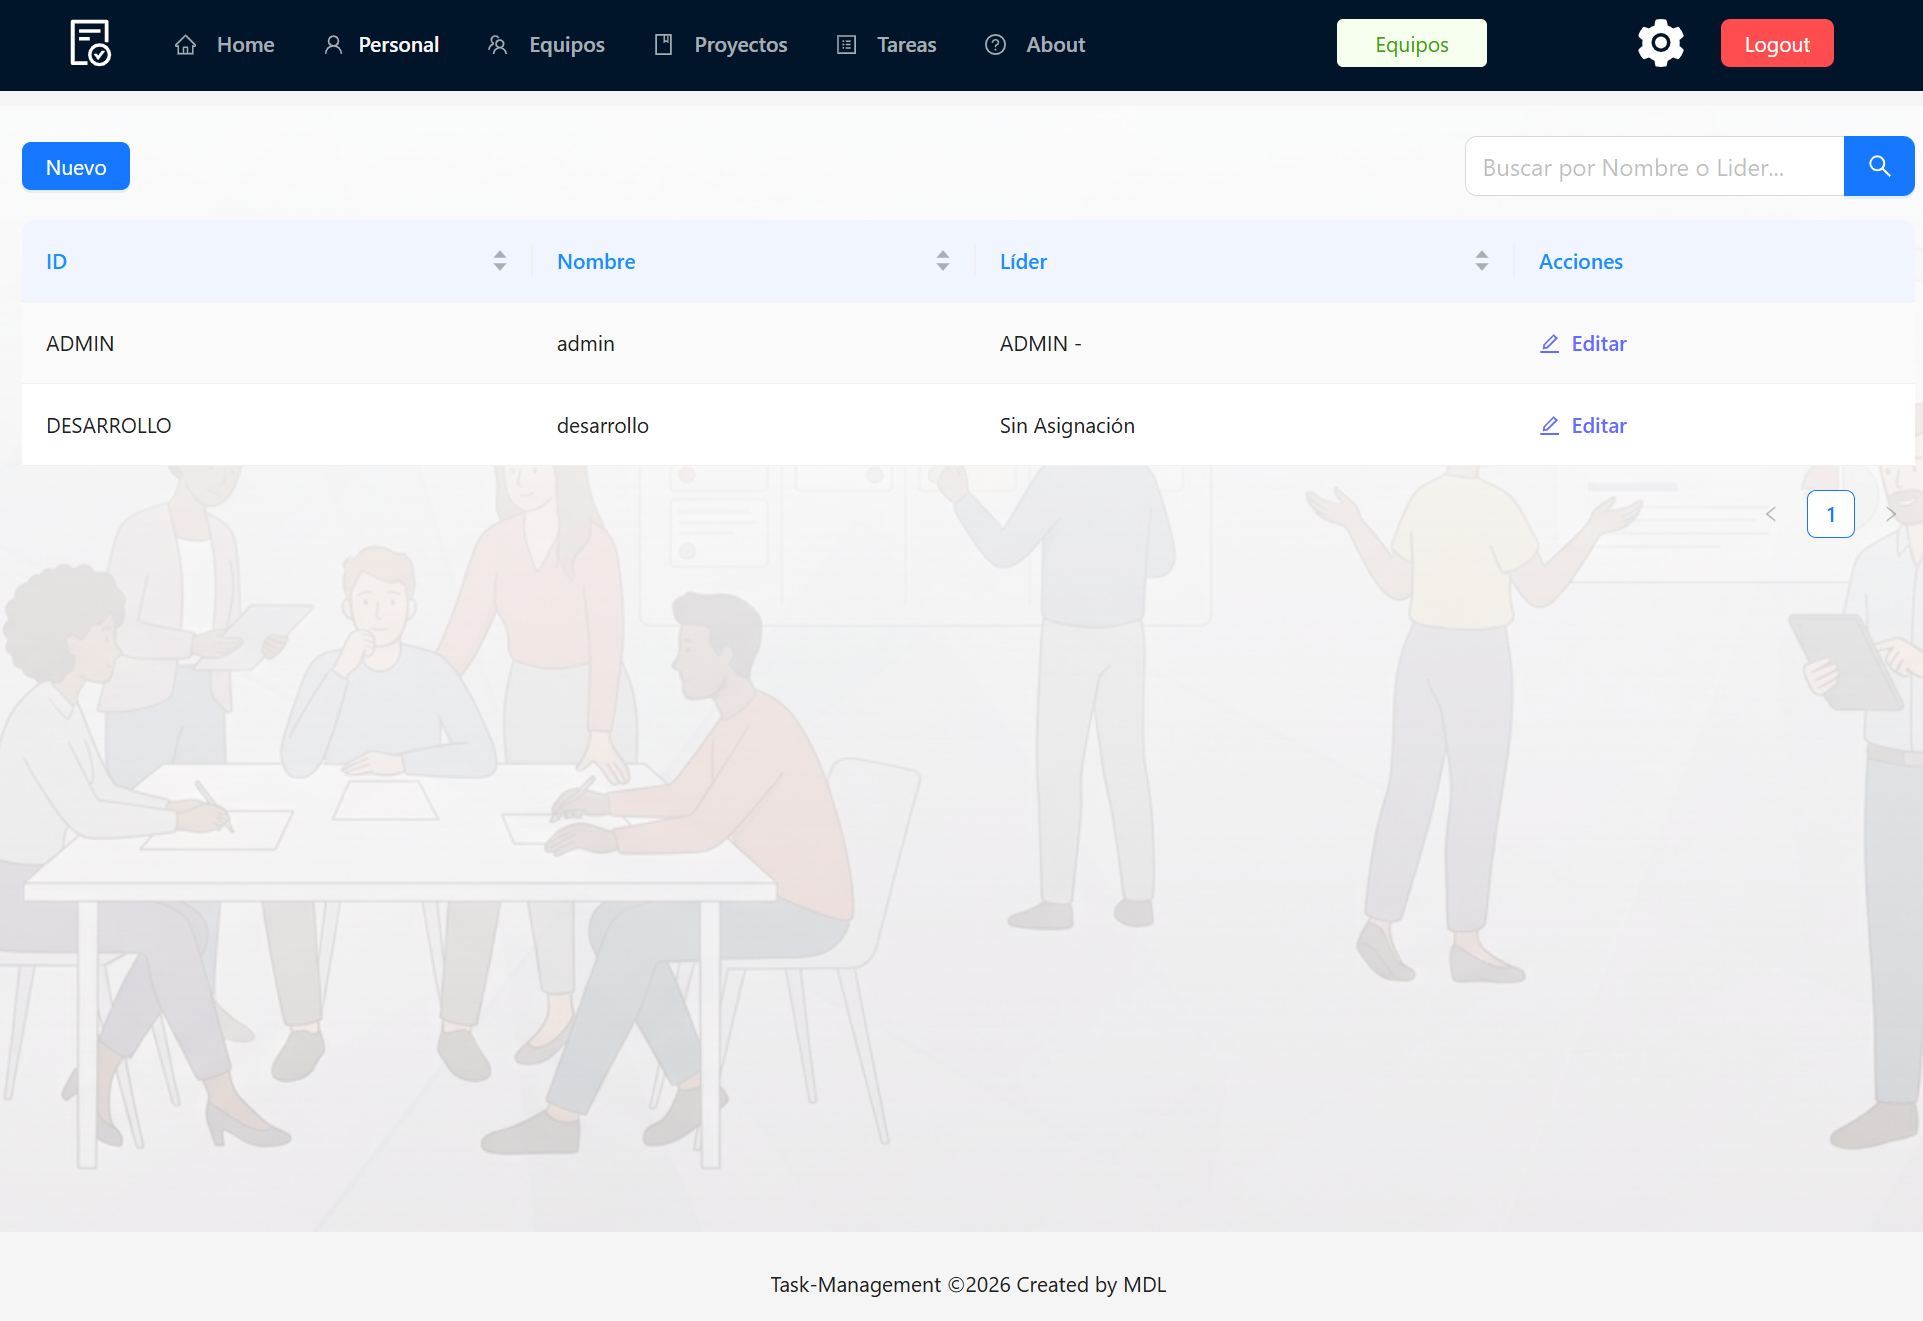
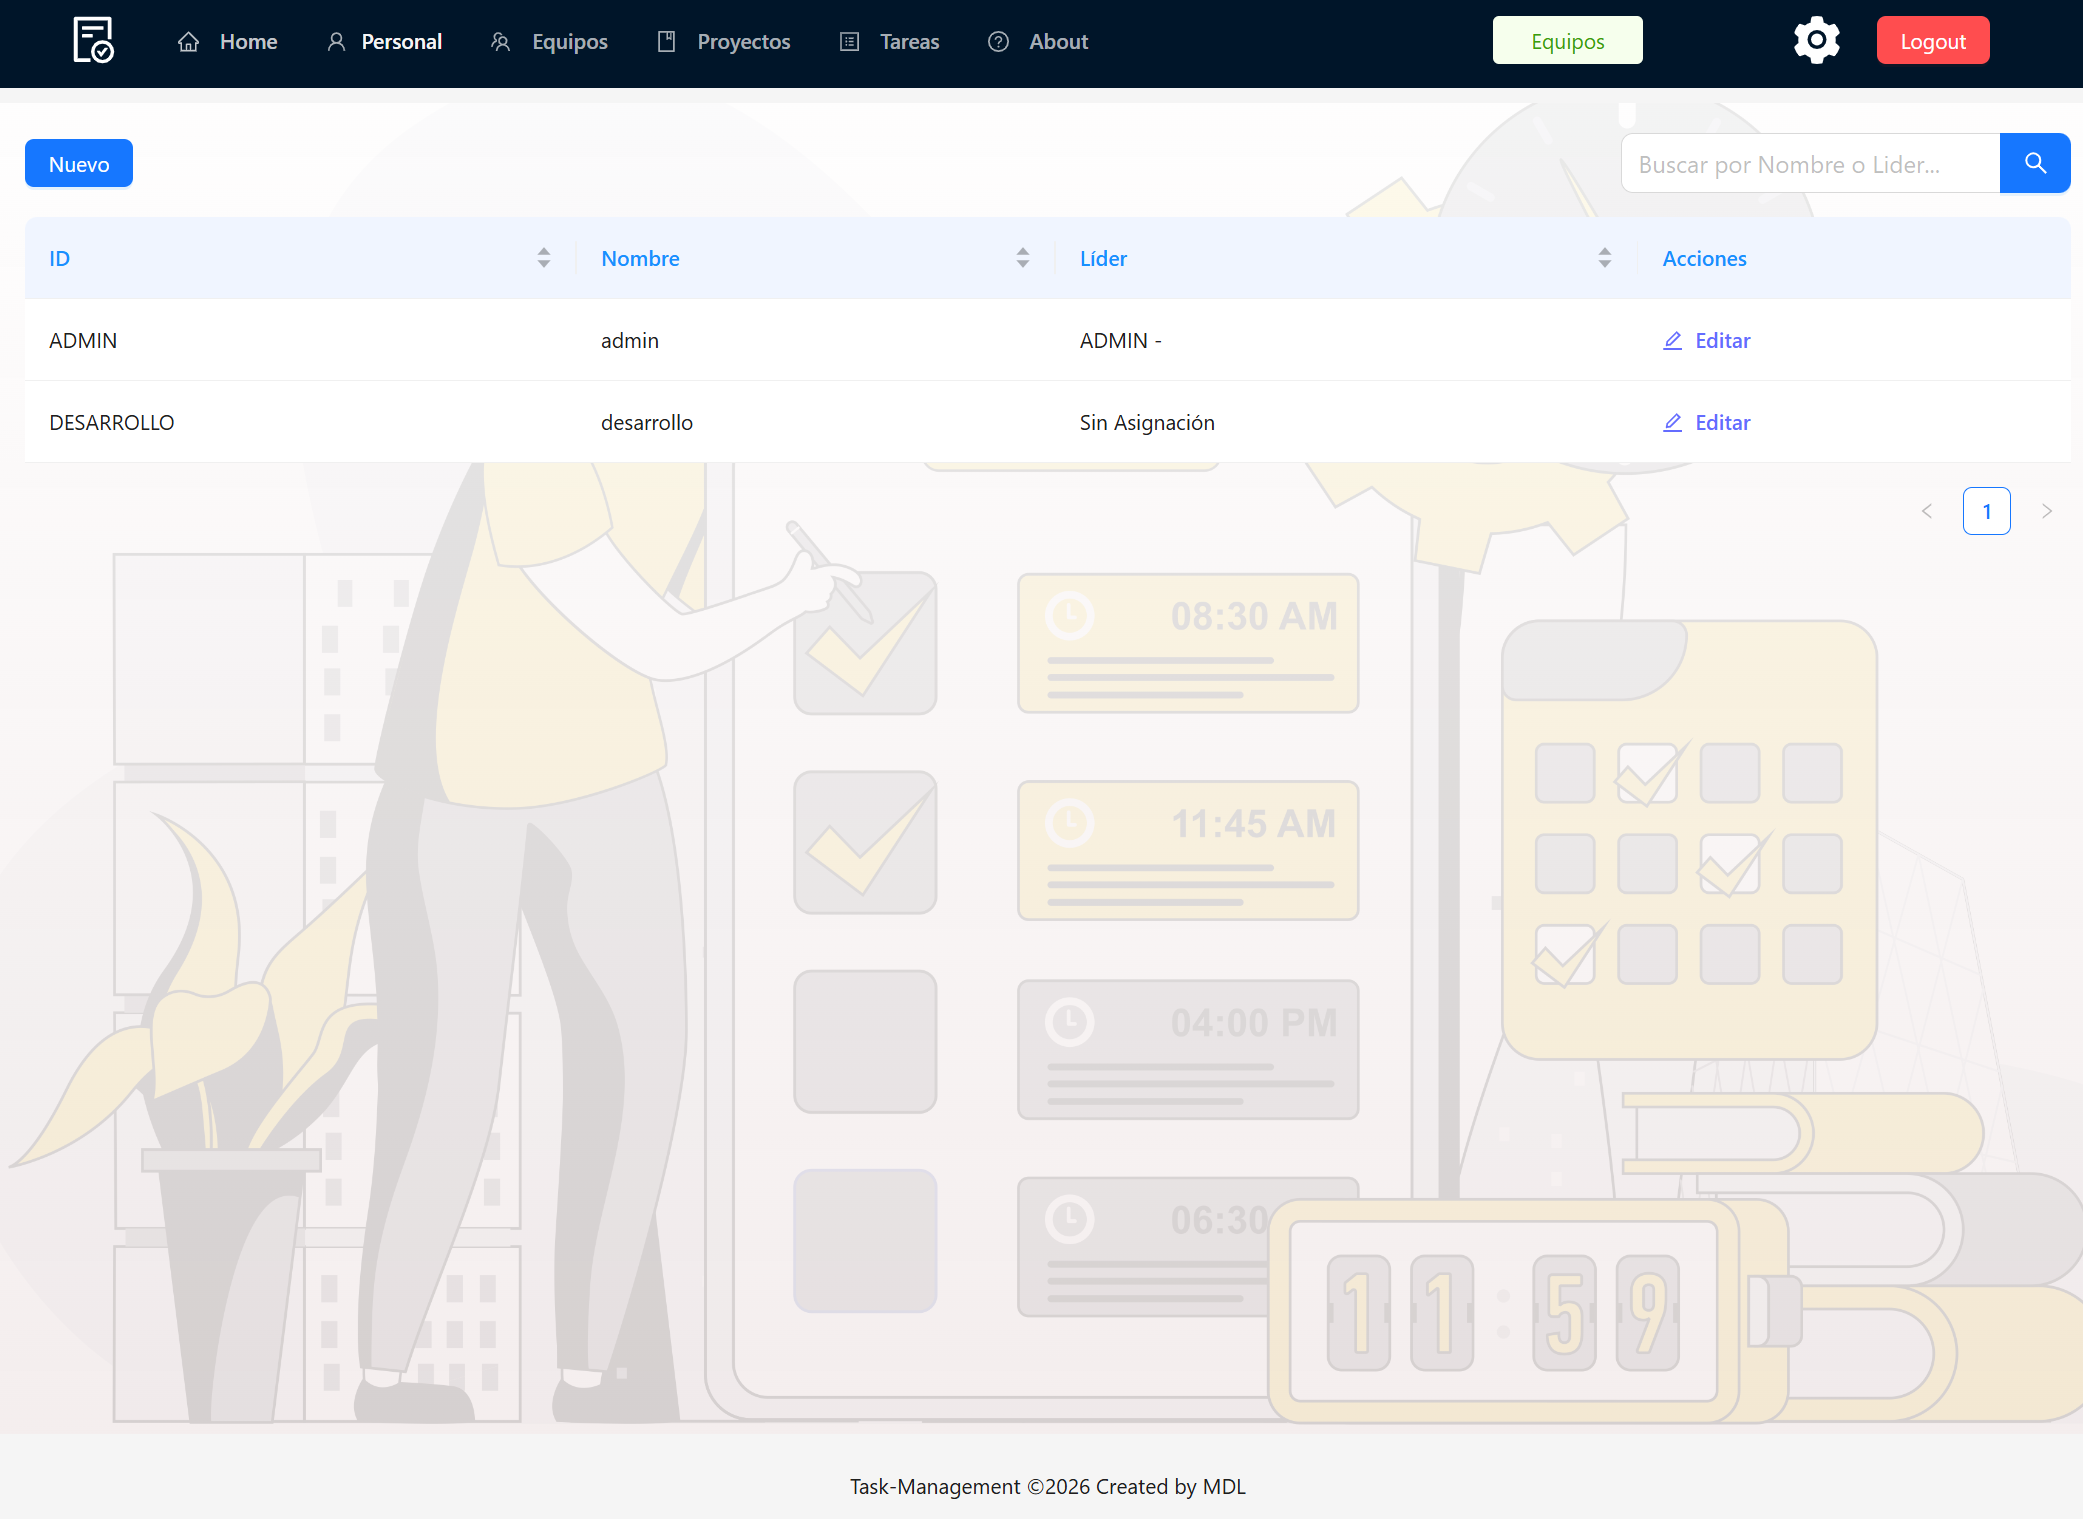
Update image

diff --git a/TaskManagement-front/src/App.css b/TaskManagement-front/src/App.css
@@ -32,7 +32,7 @@
 
 
 .body-container {
-  background-image: linear-gradient(rgba(255, 255, 255, 0.9), rgba(241, 233, 233, 0.482)), url('../public/fondo-app.png.png'); 
+  background-image: linear-gradient(rgba(255, 255, 255, 0.9), rgba(241, 233, 233, 0.847)), url('../public/vectorelements-Nfz7YCRVSzY-unsplash.png'); 
   /* CAMBIO CLAVE: cover obliga a la imagen a llenar todo el espacio */
   background-size: cover; 
   background-position: center;
